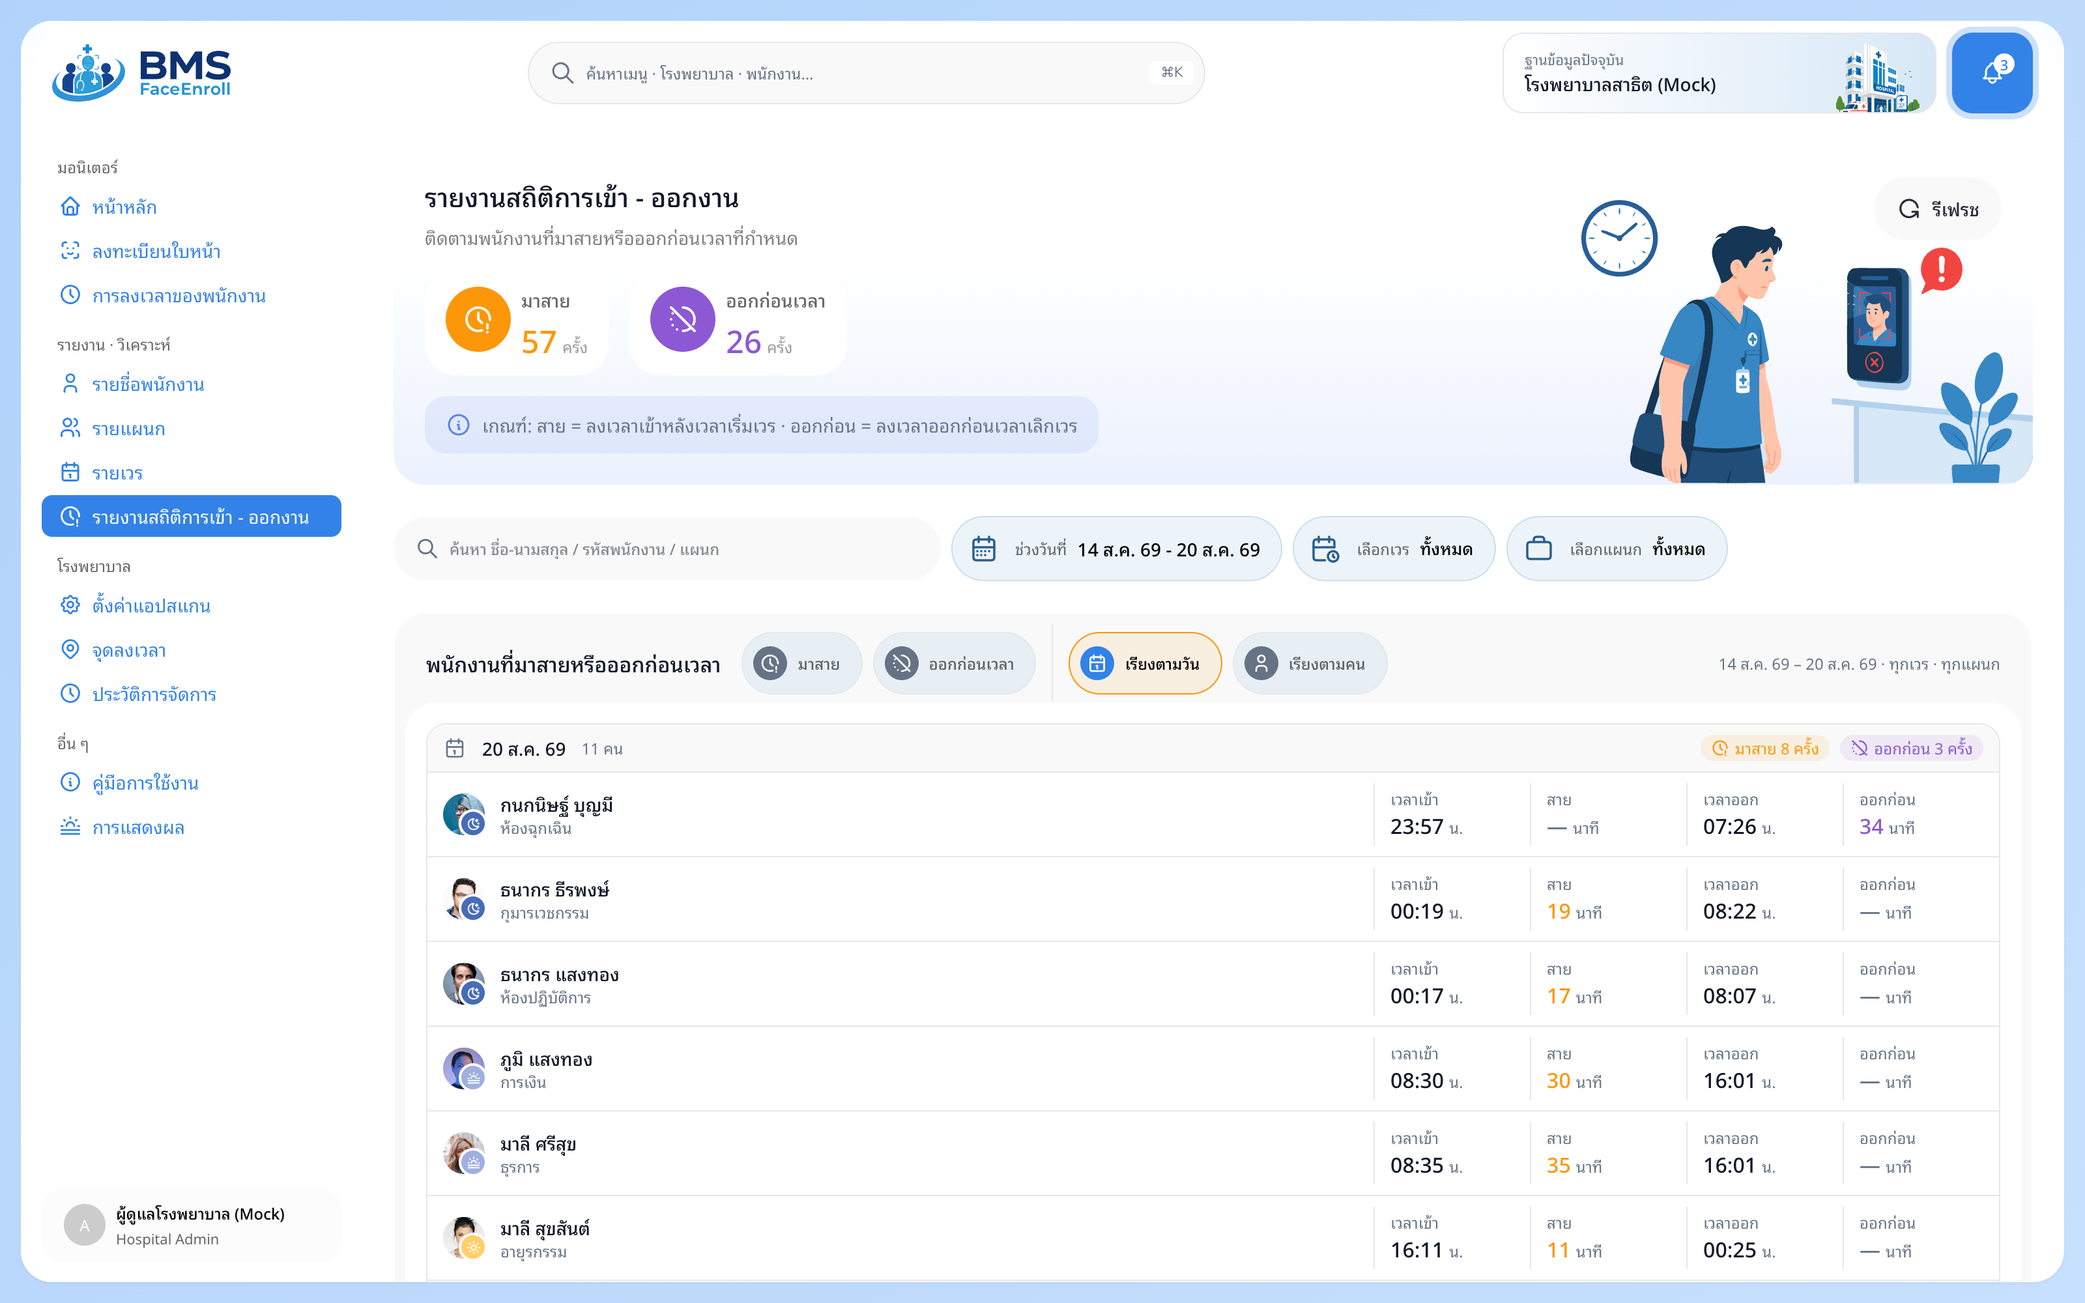
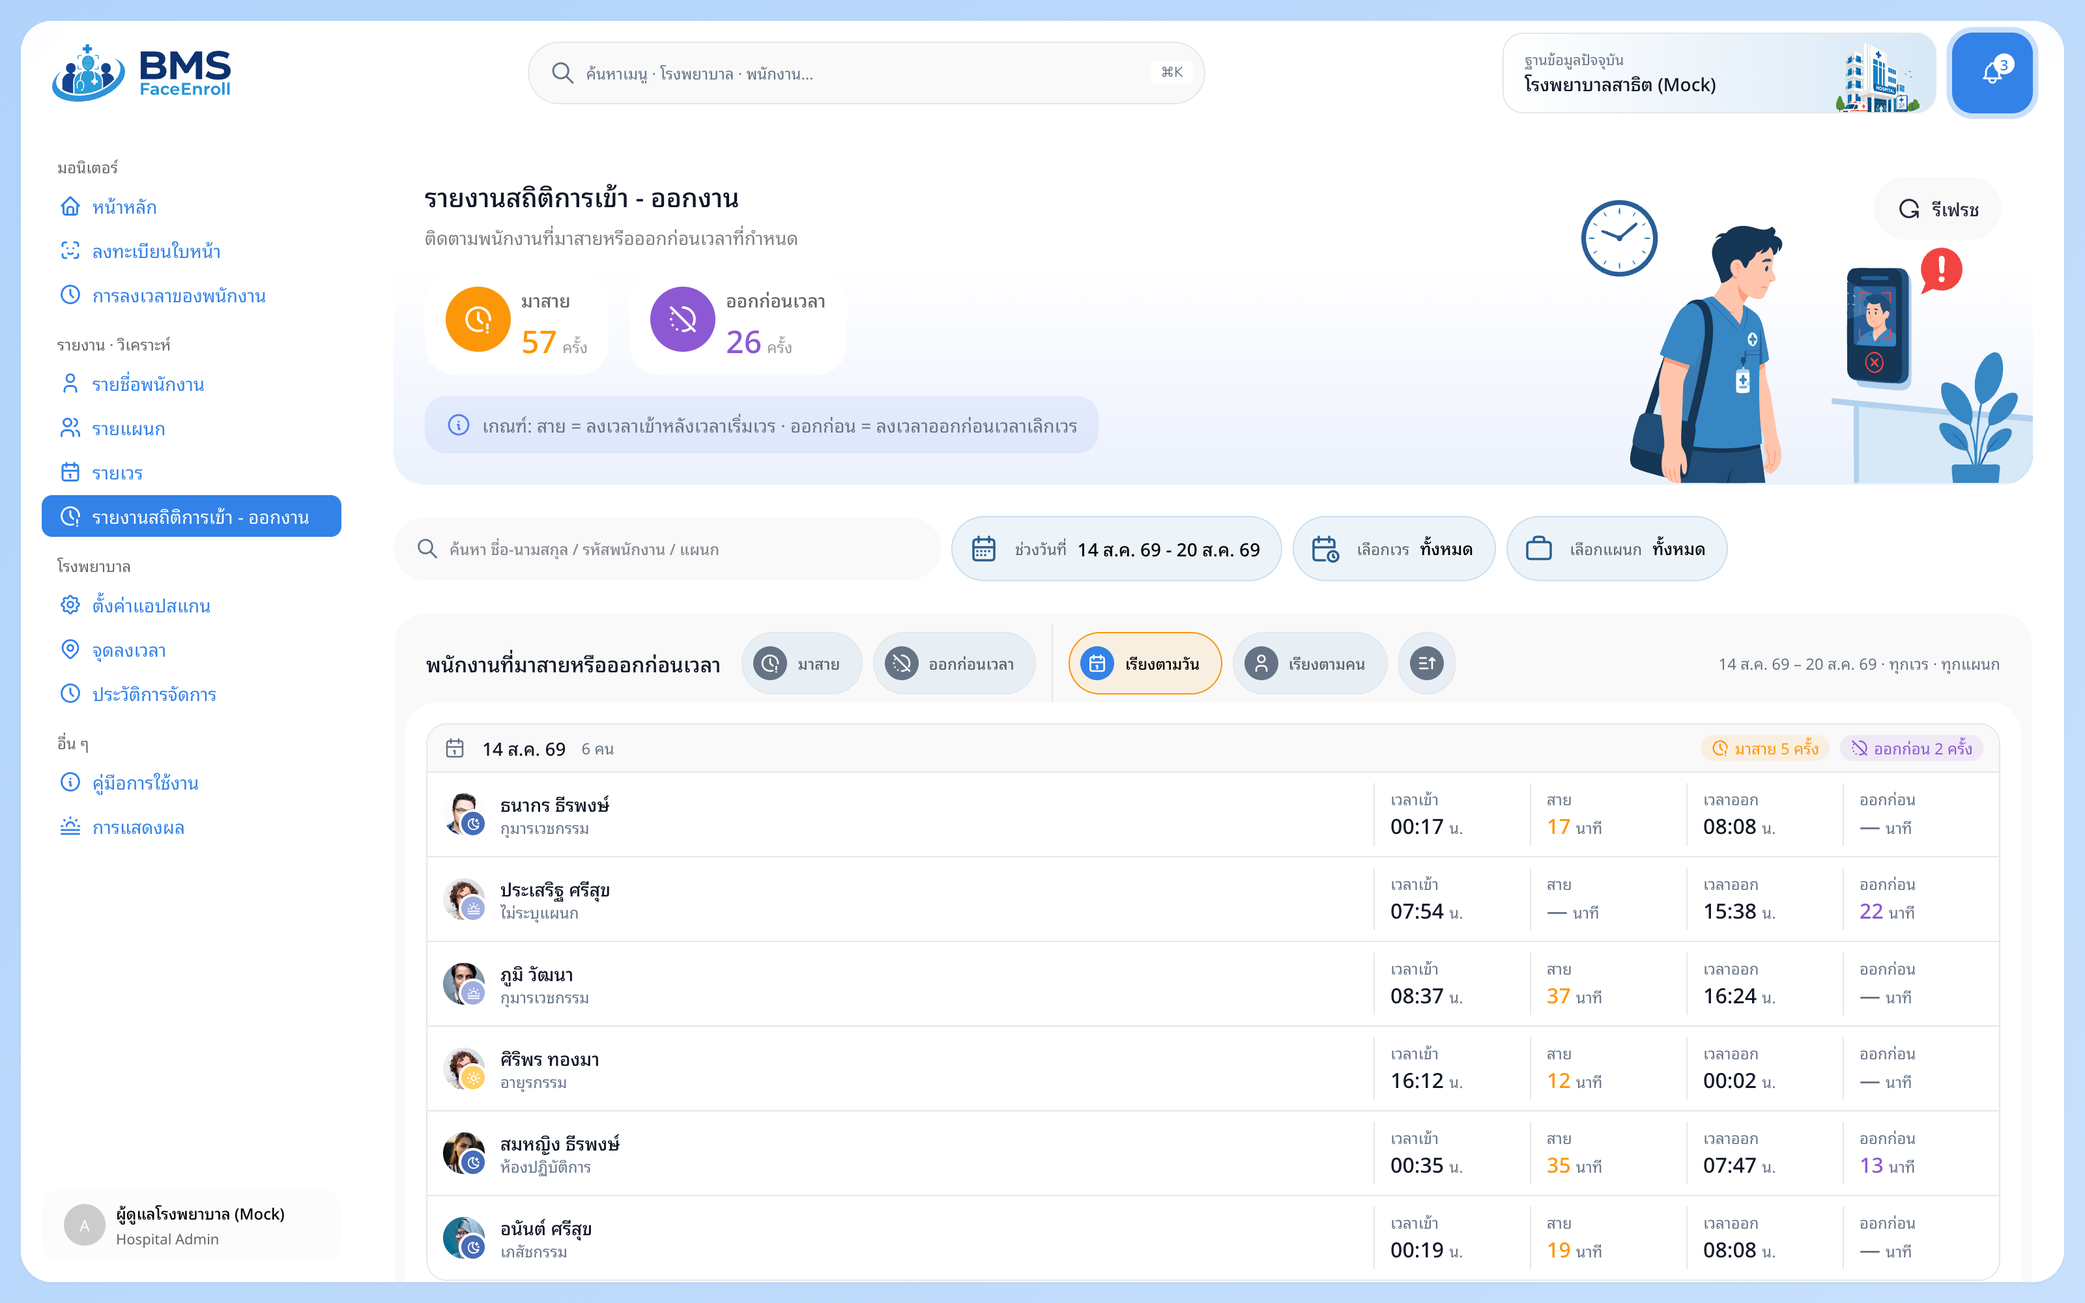
เพิ่มปุ่มไอคอนสลับลำดับวันในรายงานสถิติเข้า-ออก
- FilterChip รับ iconOnly — โชว์แค่ไอคอน ชื่อไปอยู่ใน title/aria-label
- ตามคน = คุมลำดับแถวในกลุ่ม · ตามวัน = คุมลำดับหัวกลุ่ม (ตั้งต้นเก่า -> ใหม่)
- อัปสไลด์ + ภาพประกอบ

diff --git a/src/screens/ReportLate.tsx b/src/screens/ReportLate.tsx
@@ -202,8 +202,9 @@ function GroupCard({ g, mode }: { g: IssueGroup; mode: 'date' | 'person' }) {
   )
 }
 
-/** จัดกลุ่มแถวตามวัน (ใหม่→เก่า) หรือตามคน (คนที่มีปัญหาบ่อยสุดขึ้นก่อน) */
-function groupRows(rows: IssueRow[], mode: 'date' | 'person'): IssueGroup[] {
+/** จัดกลุ่มแถวตามวัน หรือตามคน (คนที่มีปัญหาบ่อยสุดขึ้นก่อน)
+    dateAsc = ไล่วันเก่า -> ใหม่ · โหมดตามคน = ลำดับแถวในกลุ่ม · โหมดตามวัน = ลำดับหัวกลุ่ม */
+function groupRows(rows: IssueRow[], mode: 'date' | 'person', dateAsc: boolean): IssueGroup[] {
   const m = new Map<string, IssueGroup>()
   for (const r of rows) {
     const k = mode === 'date' ? r.date : r.emp
@@ -217,11 +218,11 @@ function groupRows(rows: IssueRow[], mode: 'date' | 'person'): IssueGroup[] {
   for (const g of out) {
     g.rows.sort((a, b) => (mode === 'date'
       ? a.name.localeCompare(b.name, 'th') || a.seq - b.seq
-      // เรียงตามคน = ไล่วันเก่า -> ใหม่ อ่านเป็นไทม์ไลน์ของคนนั้นได้
-      : a.date.localeCompare(b.date) || a.seq - b.seq))
+      // เรียงตามคน = ไล่วันตามที่เลือก (ตั้งต้นเก่า -> ใหม่ อ่านเป็นไทม์ไลน์ของคนนั้นได้)
+      : (dateAsc ? a.date.localeCompare(b.date) : b.date.localeCompare(a.date)) || a.seq - b.seq))
   }
   return mode === 'date'
-    ? out.sort((a, b) => b.key.localeCompare(a.key))
+    ? out.sort((a, b) => (dateAsc ? a.key.localeCompare(b.key) : b.key.localeCompare(a.key)))
     : out.sort((a, b) => (b.rows.length - a.rows.length) || a.rows[0].name.localeCompare(b.rows[0].name, 'th'))
 }
 
@@ -261,7 +262,7 @@ function IssueSkeleton({ count }: { count: number }) {
   )
 }
 
-function IssueList({ rows: allRows, total, page, onPage, showDate, loading, empty, groupBy }: {
+function IssueList({ rows: allRows, total, page, onPage, showDate, loading, empty, groupBy, dateAsc = true }: {
   rows: IssueRow[]
   total: number
   page: number
@@ -271,9 +272,11 @@ function IssueList({ rows: allRows, total, page, onPage, showDate, loading, empt
   empty: string
   /** กรองหลายวัน = จัดกลุ่มตามวัน/ตามคน (null = รายการเรียบแบบเดิม ใช้ตอนดูวันเดียว) */
   groupBy?: 'date' | 'person' | null
+  /** ลำดับวัน — true = เก่า -> ใหม่ (ค่าเริ่มต้น) */
+  dateAsc?: boolean
 }) {
   // จัดกลุ่มอยู่ = แบ่งหน้าทีละ 10 "กลุ่ม" ไม่ใช่ 10 แถว (ไม่งั้นกลุ่มโดนหั่นครึ่งคาหน้า)
-  const groups = groupBy ? groupRows(allRows, groupBy) : null
+  const groups = groupBy ? groupRows(allRows, groupBy, dateAsc) : null
   const pageGroups = groups ? pageSliceOf(groups, page) : null
   const rows = pageSlice(allRows, page)
   const boxRef = useRef<HTMLDivElement>(null)
@@ -327,6 +330,8 @@ export function ReportLate() {
   const [view, setView] = useState<'all' | 'late' | 'early'>('all')
   // กรองหลายวัน = จัดกลุ่มรายการ ("เรียงตามวัน" ตั้งต้น) — ก่อนหน้านี้แถวของคนเดียวกันกระจายอยู่คนละใบ ไล่ดูยาก
   const [groupBy, setGroupBy] = useState<'date' | 'person'>('date')
+  // ลำดับวัน — ตั้งต้นเก่า -> ใหม่ กดปุ่มไอคอนสลับได้
+  const [dateAsc, setDateAsc] = useState(true)
   const [latePage, setLatePage] = useState(0)
   const [earlyPage, setEarlyPage] = useState(0)
   const [allPage, setAllPage] = useState(0)
@@ -338,7 +343,7 @@ export function ReportLate() {
 
   // สลับโรง = ล้างตัวกรอง + กลับมาดูวันนี้ · เปลี่ยนเงื่อนไข = กลับหน้าแรกทั้งสองแผง
   useEffect(() => { setFShifts([]); setFDepts([]); setSearch(''); setFrom(localISO()); setTo(localISO()) }, [hcode])
-  useEffect(() => { setLatePage(0); setEarlyPage(0); setAllPage(0) }, [from, to, fShifts, fDepts, dq, hcode, groupBy])
+  useEffect(() => { setLatePage(0); setEarlyPage(0); setAllPage(0) }, [from, to, fShifts, fDepts, dq, hcode, groupBy, dateAsc])
 
   const fq = filterQS(fShifts, fDepts)
   // ช่วงหลายวัน = ต้องจัดกลุ่มข้ามหน้า (คนคนเดียวโผล่หลายวัน) จึงดึงมาทีเดียวแล้วแบ่งหน้าเองฝั่งหน้าเว็บ
@@ -489,6 +494,10 @@ export function ReportLate() {
                 icon={<Icon name="calendar" size={16} width={2} />} label="เรียงตามวัน" />
               <FilterChip outlined variant="choice" tone="accent" active={groupBy === 'person'} onClick={() => setGroupBy('person')}
                 icon={<Icon name="person" size={16} width={2} />} label="เรียงตามคน" />
+              {/* สลับลำดับวัน — ตามคน = ลำดับแถวในกลุ่ม · ตามวัน = ลำดับหัวกลุ่ม */}
+              <FilterChip outlined variant="action" tone="accent" iconOnly onClick={() => setDateAsc((v) => !v)}
+                icon={<Icon name={dateAsc ? 'sort-asc' : 'sort-desc'} size={16} width={2} />}
+                label={dateAsc ? 'ลำดับวัน: เก่า → ใหม่ (กดเพื่อสลับ)' : 'ลำดับวัน: ใหม่ → เก่า (กดเพื่อสลับ)'} />
             </>
           )}
         </>}
@@ -497,19 +506,19 @@ export function ReportLate() {
         {view === 'late'
           ? (
             <IssueList rows={lateShown} total={dq || multiDay ? lateShown.length : (anaF.data?.late_total ?? lateShown.length)}
-              page={latePage} onPage={setLatePage} showDate={multiDay} groupBy={multiDay ? groupBy : null}
+              page={latePage} onPage={setLatePage} showDate={multiDay} groupBy={multiDay ? groupBy : null} dateAsc={dateAsc}
               loading={anaF.loading} empty={dq ? 'ไม่พบพนักงานที่ตรงกับที่ค้นหา' : 'ไม่มีคนมาสายในช่วงที่เลือก'} />
           )
           : view === 'early'
             ? (
               <IssueList rows={earlyShown} total={dq || multiDay ? earlyShown.length : (anaF.data?.early_total ?? earlyShown.length)}
-                page={earlyPage} onPage={setEarlyPage} showDate={multiDay} groupBy={multiDay ? groupBy : null}
+                page={earlyPage} onPage={setEarlyPage} showDate={multiDay} groupBy={multiDay ? groupBy : null} dateAsc={dateAsc}
                 loading={anaF.loading} empty={dq ? 'ไม่พบพนักงานที่ตรงกับที่ค้นหา' : 'ไม่มีคนออกก่อนเวลาในช่วงที่เลือก'} />
             )
             : (
               /* รวมสองฝั่งแล้วยุบคนซ้ำ — จำนวนหน้าคิดจากรายการที่รวมแล้ว */
               <IssueList rows={allShown} total={allShown.length}
-                page={allPage} onPage={setAllPage} showDate={multiDay} groupBy={multiDay ? groupBy : null}
+                page={allPage} onPage={setAllPage} showDate={multiDay} groupBy={multiDay ? groupBy : null} dateAsc={dateAsc}
                 loading={anaF.loading} empty={dq ? 'ไม่พบพนักงานที่ตรงกับที่ค้นหา' : 'ไม่มีคนมาสายหรือออกก่อนเวลาในช่วงที่เลือก'} />
             )}
       </SectionPanel>

diff --git a/presentation/src/slides.ts b/presentation/src/slides.ts
@@ -62,7 +62,7 @@ export const SLIDES: Slide[] = [
       'ชิปใหม่ เรียงตามวัน / เรียงตามคน — โผล่เมื่อกรองหลายวัน',
       'หัวกลุ่มสรุปให้: มาสายกี่ครั้ง ออกก่อนกี่ครั้ง',
       'เรียงตามคน = คนที่มีปัญหาบ่อยสุดขึ้นก่อน',
-      'ข้างในกลุ่มไล่วันเก่า → ใหม่ อ่านเป็นไทม์ไลน์',
+      'ข้างในกลุ่มไล่วันเก่า → ใหม่ · ปุ่มไอคอนสลับลำดับวันได้',
       'แบ่งหน้าเป็นกลุ่ม ไม่หั่นกลุ่มคาหน้า',
     ],
     notes: [
@@ -72,6 +72,8 @@ export const SLIDES: Slide[] = [
         say: 'จุดที่สอง โหมดเรียงตามคน หัวการ์ดคือพนักงานหนึ่งคน บอกแผนกและจำนวนวันที่มีปัญหาในช่วงนั้น โดยเรียงคนที่มีปัญหาบ่อยที่สุดขึ้นก่อน หัวหน้างานเห็นทันทีว่าควรคุยกับใคร' },
       { x: 88, y: 58.5, side: 'left', text: 'ป้ายสรุปหัวกลุ่ม — มาสายกี่ครั้ง ออกก่อนกี่ครั้ง',
         say: 'จุดที่สาม มุมขวาของหัวกลุ่มมีป้ายสรุปว่ากลุ่มนี้มาสายกี่ครั้งและออกก่อนกี่ครั้ง ไม่ต้องนับแถวเอง' },
+      { x: 68.5, y: 51, side: 'left', text: 'ปุ่มไอคอน — สลับลำดับวัน เก่า → ใหม่ / ใหม่ → เก่า',
+        say: 'ถัดมาเป็นปุ่มไอคอนเล็ก ๆ ท้ายแถวชิป ใช้สลับลำดับวัน ค่าเริ่มต้นคือเก่าไปใหม่ กดแล้วสลับเป็นใหม่ไปเก่า ชี้ค้างไว้จะมีคำอธิบายบอกว่าตอนนี้เรียงแบบไหน โหมดเรียงตามคนปุ่มนี้คุมลำดับแถวข้างในกลุ่ม ส่วนโหมดเรียงตามวันคุมลำดับของหัวกลุ่มเอง' },
       { x: 28, y: 71, side: 'right', text: 'ข้างในไล่วันเก่า → ใหม่ — เห็นเวรและเวลาครบทุกรอบ',
         say: 'จุดสุดท้าย ข้างในกลุ่มไล่เป็นรายวันจากเก่าไปใหม่ อ่านเป็นไทม์ไลน์ของคนนั้นได้ว่าเริ่มมีปัญหาตั้งแต่เมื่อไรและดีขึ้นหรือแย่ลง แต่ละบรรทัดบอกเวรของรอบนั้นพร้อมเวลาเข้า นาทีที่สาย เวลาออก และนาทีที่ออกก่อน คนที่ควบกะสองรอบในวันเดียวก็จะเห็นเป็นสองบรรทัดแยกเวรกัน ส่วนโหมดเรียงตามวันจะสลับกัน คือหัวกลุ่มเป็นวันที่เรียงวันล่าสุดขึ้นก่อน แล้วข้างในไล่เป็นรายคนแทน' },
     ],

diff --git a/src/components/inputs/FilterChip.tsx b/src/components/inputs/FilterChip.tsx
@@ -15,7 +15,7 @@ import { TEXT } from '../../typography'
 // .chip กับ .chip-choice ใน theme.css — ที่นี่คุมแค่โครงกับสีของไอคอน
 
 export function FilterChip({
-  icon, label, value, variant = 'select', active = false, tone = 'warn', outlined, disabled, onClick, children,
+  icon, label, value, variant = 'select', active = false, tone = 'warn', outlined, disabled, onClick, children, iconOnly,
 }: {
   icon?: ReactNode
   label: ReactNode
@@ -29,6 +29,8 @@ export function FilterChip({
   /** มีเส้นขอบ — ใช้ตอนวางบนพื้นเทา (Figma หน้ารายละเอียดพนักงาน) ไม่งั้นชิปจมไปกับพื้น */
   outlined?: boolean
   disabled?: boolean
+  /** โชว์แค่ไอคอน — label ไปอยู่ใน title/aria-label แทน (ปุ่มสลับที่ความหมายชัดจากไอคอนอยู่แล้ว) */
+  iconOnly?: boolean
   onClick?: () => void
   /** ตัวควบคุมจริง (SearchSelect / DateRangePicker) วางแทนส่วน value */
   children?: ReactNode
@@ -57,13 +59,15 @@ export function FilterChip({
         if (e.key === 'Enter' || e.key === ' ') { e.preventDefault(); onClick() }
       } : undefined}
       role={choice && onClick ? 'button' : undefined}
+      title={iconOnly && typeof label === 'string' ? label : undefined}
+      aria-label={iconOnly && typeof label === 'string' ? label : undefined}
       tabIndex={choice && onClick && !disabled ? 0 : undefined}
       aria-pressed={choice && onClick ? active : undefined}
       aria-disabled={disabled || undefined}
       style={{
         display: 'inline-flex', alignItems: 'center', gap: 'var(--sp-2)',
         minHeight: 48,
-        padding: 'var(--sp-2) var(--sp-4) var(--sp-2) var(--sp-2)',
+        padding: iconOnly ? 'var(--sp-2)' : 'var(--sp-2) var(--sp-4) var(--sp-2) var(--sp-2)',
         cursor: disabled ? 'not-allowed' : interactive ? 'pointer' : 'default',
         opacity: disabled ? 0.5 : 1,
         whiteSpace: 'nowrap',
@@ -82,6 +86,7 @@ export function FilterChip({
         }}>{icon}</span>
       )}
 
+      {!iconOnly && (
       <span style={{ display: 'inline-flex', alignItems: 'center', gap: 'var(--sp-2)' }}>
         <span style={{
           ...(choice ? { ...TEXT.sm, fontWeight: 500 } : TEXT.sm),
@@ -91,6 +96,7 @@ export function FilterChip({
           <span style={{ ...TEXT.bodyMed, color: 'var(--text-faint)' }}>{value}</span>
         ))}
       </span>
+      )}
     </div>
   )
 }

diff --git a/src/icons.tsx b/src/icons.tsx
@@ -16,6 +16,8 @@ const P: Record<string, string> = {
   'chevron-down': "<path d=\"M6 9l6 6l6 -6\" />", // tabler: chevron-down
   'chevron-left': "<path d=\"M15 6l-6 6l6 6\" />", // tabler: chevron-left
   'chevron-right': "<path d=\"M9 6l6 6l-6 6\" />", // tabler: chevron-right
+  'sort-asc': "<path d=\"M4 6l7 0\" /><path d=\"M4 12l7 0\" /><path d=\"M4 18l9 0\" /><path d=\"M15 9l3 -3l3 3\" /><path d=\"M18 6l0 12\" />", // tabler: sort-ascending-2
+  'sort-desc': "<path d=\"M4 6l9 0\" /><path d=\"M4 12l7 0\" /><path d=\"M4 18l7 0\" /><path d=\"M15 15l3 3l3 -3\" /><path d=\"M18 6l0 12\" />", // tabler: sort-descending-2
   filter: "<path d=\"M4 4h16v2.172a2 2 0 0 1 -.586 1.414l-4.414 4.414v7l-6 2v-8.5l-4.48 -4.928a2 2 0 0 1 -.52 -1.345v-2.227z\" />", // tabler: filter
   clock: "<path d=\"M3 12a9 9 0 1 0 18 0a9 9 0 0 0 -18 0\" /><path d=\"M12 7v5l3 3\" />", // tabler: clock
   'clock-alert': "<path d=\"M20.986 12.502a9 9 0 1 0 -5.973 7.98\" /><path d=\"M12 7v5l3 3\" /><path d=\"M19 16v3\" /><path d=\"M19 22v.01\" />", // tabler: clock-exclamation
